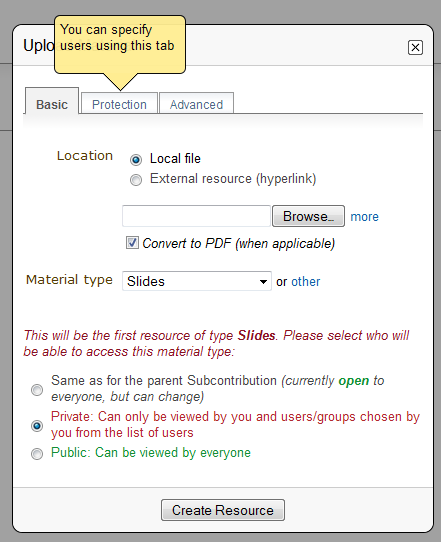
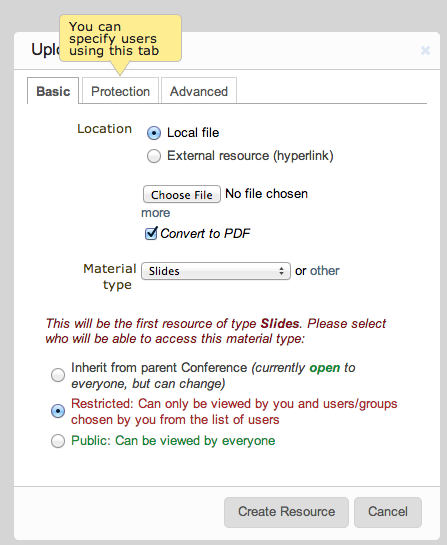
[MIN] Change from PRIVATE to RESTRICTED

diff --git a/indico/htdocs/js/indico/MaterialEditor/Editor.js b/indico/htdocs/js/indico/MaterialEditor/Editor.js
@@ -294,7 +294,7 @@ type("AddMaterialDialog", ["AddEditMaterialDialog","ExclusivePopupWithButtons"],
 
             selector = new RadioFieldWidget([
                 ['inherit', Html.span({className: protection == -1 ? 'strongProtPublic' : 'strongProtPrivate'}, $T("Inherit from parent material type ")+"\""+entry.get('title')+"\" ", inheritanceText)],
-                ['private', Html.span({className: 'protPrivate'}, $T("Private: Can only be viewed by you and users/groups chosen by you from the list of users"))],
+                ['private', Html.span({className: 'protPrivate'}, $T("Restricted: Can only be viewed by you and users/groups chosen by you from the list of users"))],
                 ['public', Html.span({className: 'protPublic'}, $T("Public: Can be viewed by everyone"))]
             ], 'nobulletsListWrapping');
 
@@ -307,7 +307,7 @@ type("AddMaterialDialog", ["AddEditMaterialDialog","ExclusivePopupWithButtons"],
 
             selector = new RadioFieldWidget([
                 ['inherit', this._parentText(this.args)],
-                ['private', Html.span({className: 'protPrivate'}, $T("Private: Can only be viewed by you and users/groups chosen by you from the list of users"))],
+                ['private', Html.span({className: 'protPrivate'}, $T("Restricted: Can only be viewed by you and users/groups chosen by you from the list of users"))],
                 ['public', Html.span({className: 'protPublic'}, $T("Public: Can be viewed by everyone"))]
             ], 'nobulletsListWrapping');
         }
@@ -819,7 +819,7 @@ type("EditMaterialResourceBase", ["AddEditMaterialDialog", "ServiceDialogWithBut
 
         self.protectionSelector  = new RadioFieldWidget([
             [0, self._parentText(this.args)],
-            [1, Html.span({className: 'protPrivate'}, $T("Private: Can only be viewed by you and users/groups chosen by you from the list of users"))],
+            [1, Html.span({className: 'protPrivate'}, $T("Restricted: Can only be viewed by you and users/groups chosen by you from the list of users"))],
             [-1, Html.span({className: 'protPublic'}, $T("Public: Can be viewed by everyone"))]
             ], 'nobulletsListWrapping');
 

diff --git a/indico/htdocs/js/indico/Core/Dialogs/Users.js b/indico/htdocs/js/indico/Core/Dialogs/Users.js
@@ -615,6 +615,7 @@ type("ChooseUsersPopup", ["ExclusivePopupWithButtons", "PreLoadHandler"], {
                 var killProgress = IndicoUI.Dialogs.Util.progress($T("Loading dialog..."));
                 indicoRequest('user.favorites.listUsers', {},
                     function(result, error) {
+                        debugger;
                         if (!error) {
                             updateFavList(result);
                             killProgress();

diff --git a/indico/MaKaC/webinterface/wcomponents.py b/indico/MaKaC/webinterface/wcomponents.py
@@ -1744,7 +1744,7 @@ class WAccessControlFrameBase(WTemplated):
             vars["privacy"] = "PUBLIC"
             vars["statusColor"] = "#128F33"
         elif self._target.isItselfProtected():
-            vars["privacy"] = "PRIVATE"
+            vars["privacy"] = "RESTRICTED"
             vars["statusColor"] = "#B02B2C"
         else :
             vars["privacy"] = "INHERITING"
@@ -1758,7 +1758,7 @@ class WAccessControlFrameBase(WTemplated):
             else:
                 vars["parentName"] = self._target.getOwner().getTitle()
             if self._target.hasProtectedOwner():
-                    vars["parentPrivacy"] = "PRIVATE"
+                    vars["parentPrivacy"] = "RESTRICTED"
                     vars["parentStatusColor"] = "#B02B2C"
             else :
                     vars["parentPrivacy"] = "PUBLIC"

diff --git a/doc/guides/UserGuide/Protection.rst b/doc/guides/UserGuide/Protection.rst
@@ -33,8 +33,8 @@ As we can see, a **File** inherits the protection policy from
 *Session*, *Session* from *Event*, *Event* from *Sub-category* and
 *Sub-category* from *Category.*
 The next picture shows an example of this inheritance system.
-"Category A" is PRIVATE and because of this, "Conference 1" becomes
-PRIVATE too. As User 1 and User 2 are in the access list for
+"Category A" is RESTRICTED and because of this, "Conference 1" becomes
+RESTRICTED too. As User 1 and User 2 are in the access list for
 "Category A" they can also access "Conference 1". The rest of Indico
 users cannot access "Category A" and "Conference 1".
 
@@ -90,7 +90,7 @@ In this graph, only restricted users have access to Category A, but
 everyone can access Conference A, as it is public.
 
 
-**Private**: Making an object private will make it invisible to all
+**Restricted**: Making an object private will make it invisible to all
 users. You will then need to set the users which will have access to it.
 For example, suppose category B is public and conference B is private,
 and you allow users 1 and 2 to access the conference. Then everyone will
@@ -133,7 +133,7 @@ material, file and link) is PUBLIC, we can restrict the access to
 users accessing Indico from some given IPs (these IPs could be like
 127.1 which means that every IP starting like this will be valid).
 
-If the Indico object is PRIVATE, this checking will not be
+If the Indico object is RESTRICTED, this checking will not be
 applied.
 
 If it is INHERITING, it will have the same access protection as its

diff --git a/doc/guides/UserGuide/Conferences.rst b/doc/guides/UserGuide/Conferences.rst
@@ -1102,10 +1102,10 @@ From the Protection tab you can:
   to the contributions. By default nobody can submit material, it needs
   to be specified.
 * List the users that can modify the contributions.
-* Make the contribution Public, Private or Inheriting (see :ref:`access_control`):
+* Make the contribution Public, Restricted or Inheriting (see :ref:`access_control`):
 
   - *Public*: Any user can view (not modify) the contribution.
-  - *Private:* Only users listed in the access/modification/submission
+  - *Restricted:* Only users listed in the access/modification/submission
     control can access the contribution.
   - *Inheriting*: It will have the same access protection as its parent
     event. Changing the access protection of the parent event will change
@@ -1356,13 +1356,13 @@ When it is inheriting, it will have the same access protection as its
 parent categoy. Changing the parent's access protection will change
 the conference's access protection accordingly; see :ref:`access_control`.
 
-If the conference is  PRIVATE the event manager will be able to set a
+If the conference access is  RESTRICTED the event manager will be able to set a
 'Contact in case of no access', so users with no access will know who to contact
 in order to request access.
 
 |image49|
 
-Private events can have an Access Key, meaning that anyone
+Restricted events can have an Access Key, meaning that anyone
 with this key will be able to access the conference without logging in. Users
 will see a message such as the following:
 

diff --git a/doc/guides/UserGuide/Categories.rst b/doc/guides/UserGuide/Categories.rst
@@ -38,7 +38,7 @@ access from the menu *Manage*, option *Edit category*. In *General settings*,
 |image1|
 
 Setting the protection for your category is important. You can set it
-to Inheriting, Private or Public, see :ref:`access_control` .
+to Inheriting, Restricted or Public, see :ref:`access_control` .
 
 
 -----------------
@@ -146,12 +146,12 @@ will be able to modify its category without being listed.
 Public: Anyone can view a public category and any user can add events to it.
 However, users will only be able to see the events inside the
 category to which they have access.
-Private: Only those users in the access list or administrators can
+Restricted: Only those users in the access list or administrators can
 access the category and add events. When a Category is made private,
 the option for domain control is omitted and any event or
 category made inside it will also be private. The category will be
 displayed with "(protected)" after its name to show it is private.
-As well, if the category is  PRIVATE the category manager will be able to set a
+As well, if the category access is  RESTRICTED the category manager will be able to set a
 'Contact in case of no access', so users with no access will know who to contact
 in order to request access.
 Inheriting: The category will have the same access protection as its

diff --git a/doc/guides/UserGuide/Lectures.rst b/doc/guides/UserGuide/Lectures.rst
@@ -167,7 +167,7 @@ When it is inheriting, it has the same access protection as its parent
 category. Changing the access protection of its parent category will
 change the access protection of the lecture.
 
-If the conference is  PRIVATE the event manager will be able to set a
+If the lecture access is  PRIVATE the event manager will be able to set a
 'Contact in case of no access', so users with no access will know who to contact
 in order to request access.
 
@@ -176,10 +176,10 @@ with this key can access the lecture without logging in.
 
 |image146|
 
-If the lecture is PUBLIC and has some element that is PRIVATE, there will
+If the lecture is PUBLIC and has some element that is RESTRICTED, there will
 show a message 'Some parts of it are, however, protected. Which ones?'. If you
 click in 'Which ones?' it will show a popup with the children protected. The same
-works when the lecture is PRIVATE and has PUBLIC elements.
+works when the lecture access is RESTRICTED and has PUBLIC elements.
 
 |image167|
 

diff --git a/doc/guides/Glossary/Glossary.rst b/doc/guides/Glossary/Glossary.rst
@@ -90,12 +90,12 @@ Indico's Glossary
      can be associated with Meetings, Sessions, Contributions and
      Subcontributions.
 
-   Private
+   Restricted
      A status in which a resource cannot be accessed by users that do
      not accomplish certain criteria (i.e. being in a list, or coming
      from a specific IP domain...).
 
-   Private by Inheritance
+   Restricted by Inheritance
      A status in which an resource is private just because its parent
      resource was set as private (either by inheritance, or
      explicitly).
@@ -103,7 +103,7 @@ Indico's Glossary
    Public
      A status in which a resource is publicly accessible, with no
      constraints. This status can be overriden, if the parent resource
-     is set as private (see Private by Inheritance).
+     is set as private (see Restricted by Inheritance).
 
    Resource
      In the context of this document, a Resource is a category, event

diff --git a/doc/guides/FAQ/FAQ.rst b/doc/guides/FAQ/FAQ.rst
@@ -63,8 +63,8 @@ How do I restrict the access rights of my event to certain users?
 In order to do that, go to the Managment Area of your event and
 select the 'Protection' entry in the side menu. Once that you are in
 the protection settings, pay attention to the 'Access Control' settings.
-In order to set the access rights, you have to make your event 'Private' first by
-changing its 'Current status' to either 'Private by itself' or 'Private by inheritance'
+In order to set the access rights, you have to make your event 'Restricted' first by
+changing its 'Current status' to either 'Restricted by itself' or 'Restricted by inheritance'
 (if available). Once the event is private, add users to the 'Users allowed to access' list
 by clicking the 'Add user to list' button. A form will be displayed in which you can
 search for users by entering their family name, first name, etc... You can also restrict

diff --git a/doc/guides/UserGuide/Meetings.rst b/doc/guides/UserGuide/Meetings.rst
@@ -297,14 +297,14 @@ of the meeting (see :ref:`access_control`)
 
 |image120|
 
-If the meeting is PUBLIC and has some element that is PRIVATE, there will
+If the meeting is PUBLIC and has some element that is RESTRICTED, there will
 show a message 'Some parts of it are, however, protected. Which ones?'. If you
 click in 'Which ones?' it will show a popup with the children protected. The same
-works when the meeting is PRIVATE and has PUBLIC elements.
+works when the meeting access is RESTRICTED and has PUBLIC elements.
 
 |image165|
 
-If the conference is  PRIVATE the event manager will be able to set a
+If the meeting access is  RESTRICTED the event manager will be able to set a
 'Contact in case of no access', so users with no access will know who to contact
 in order to request access.
 
